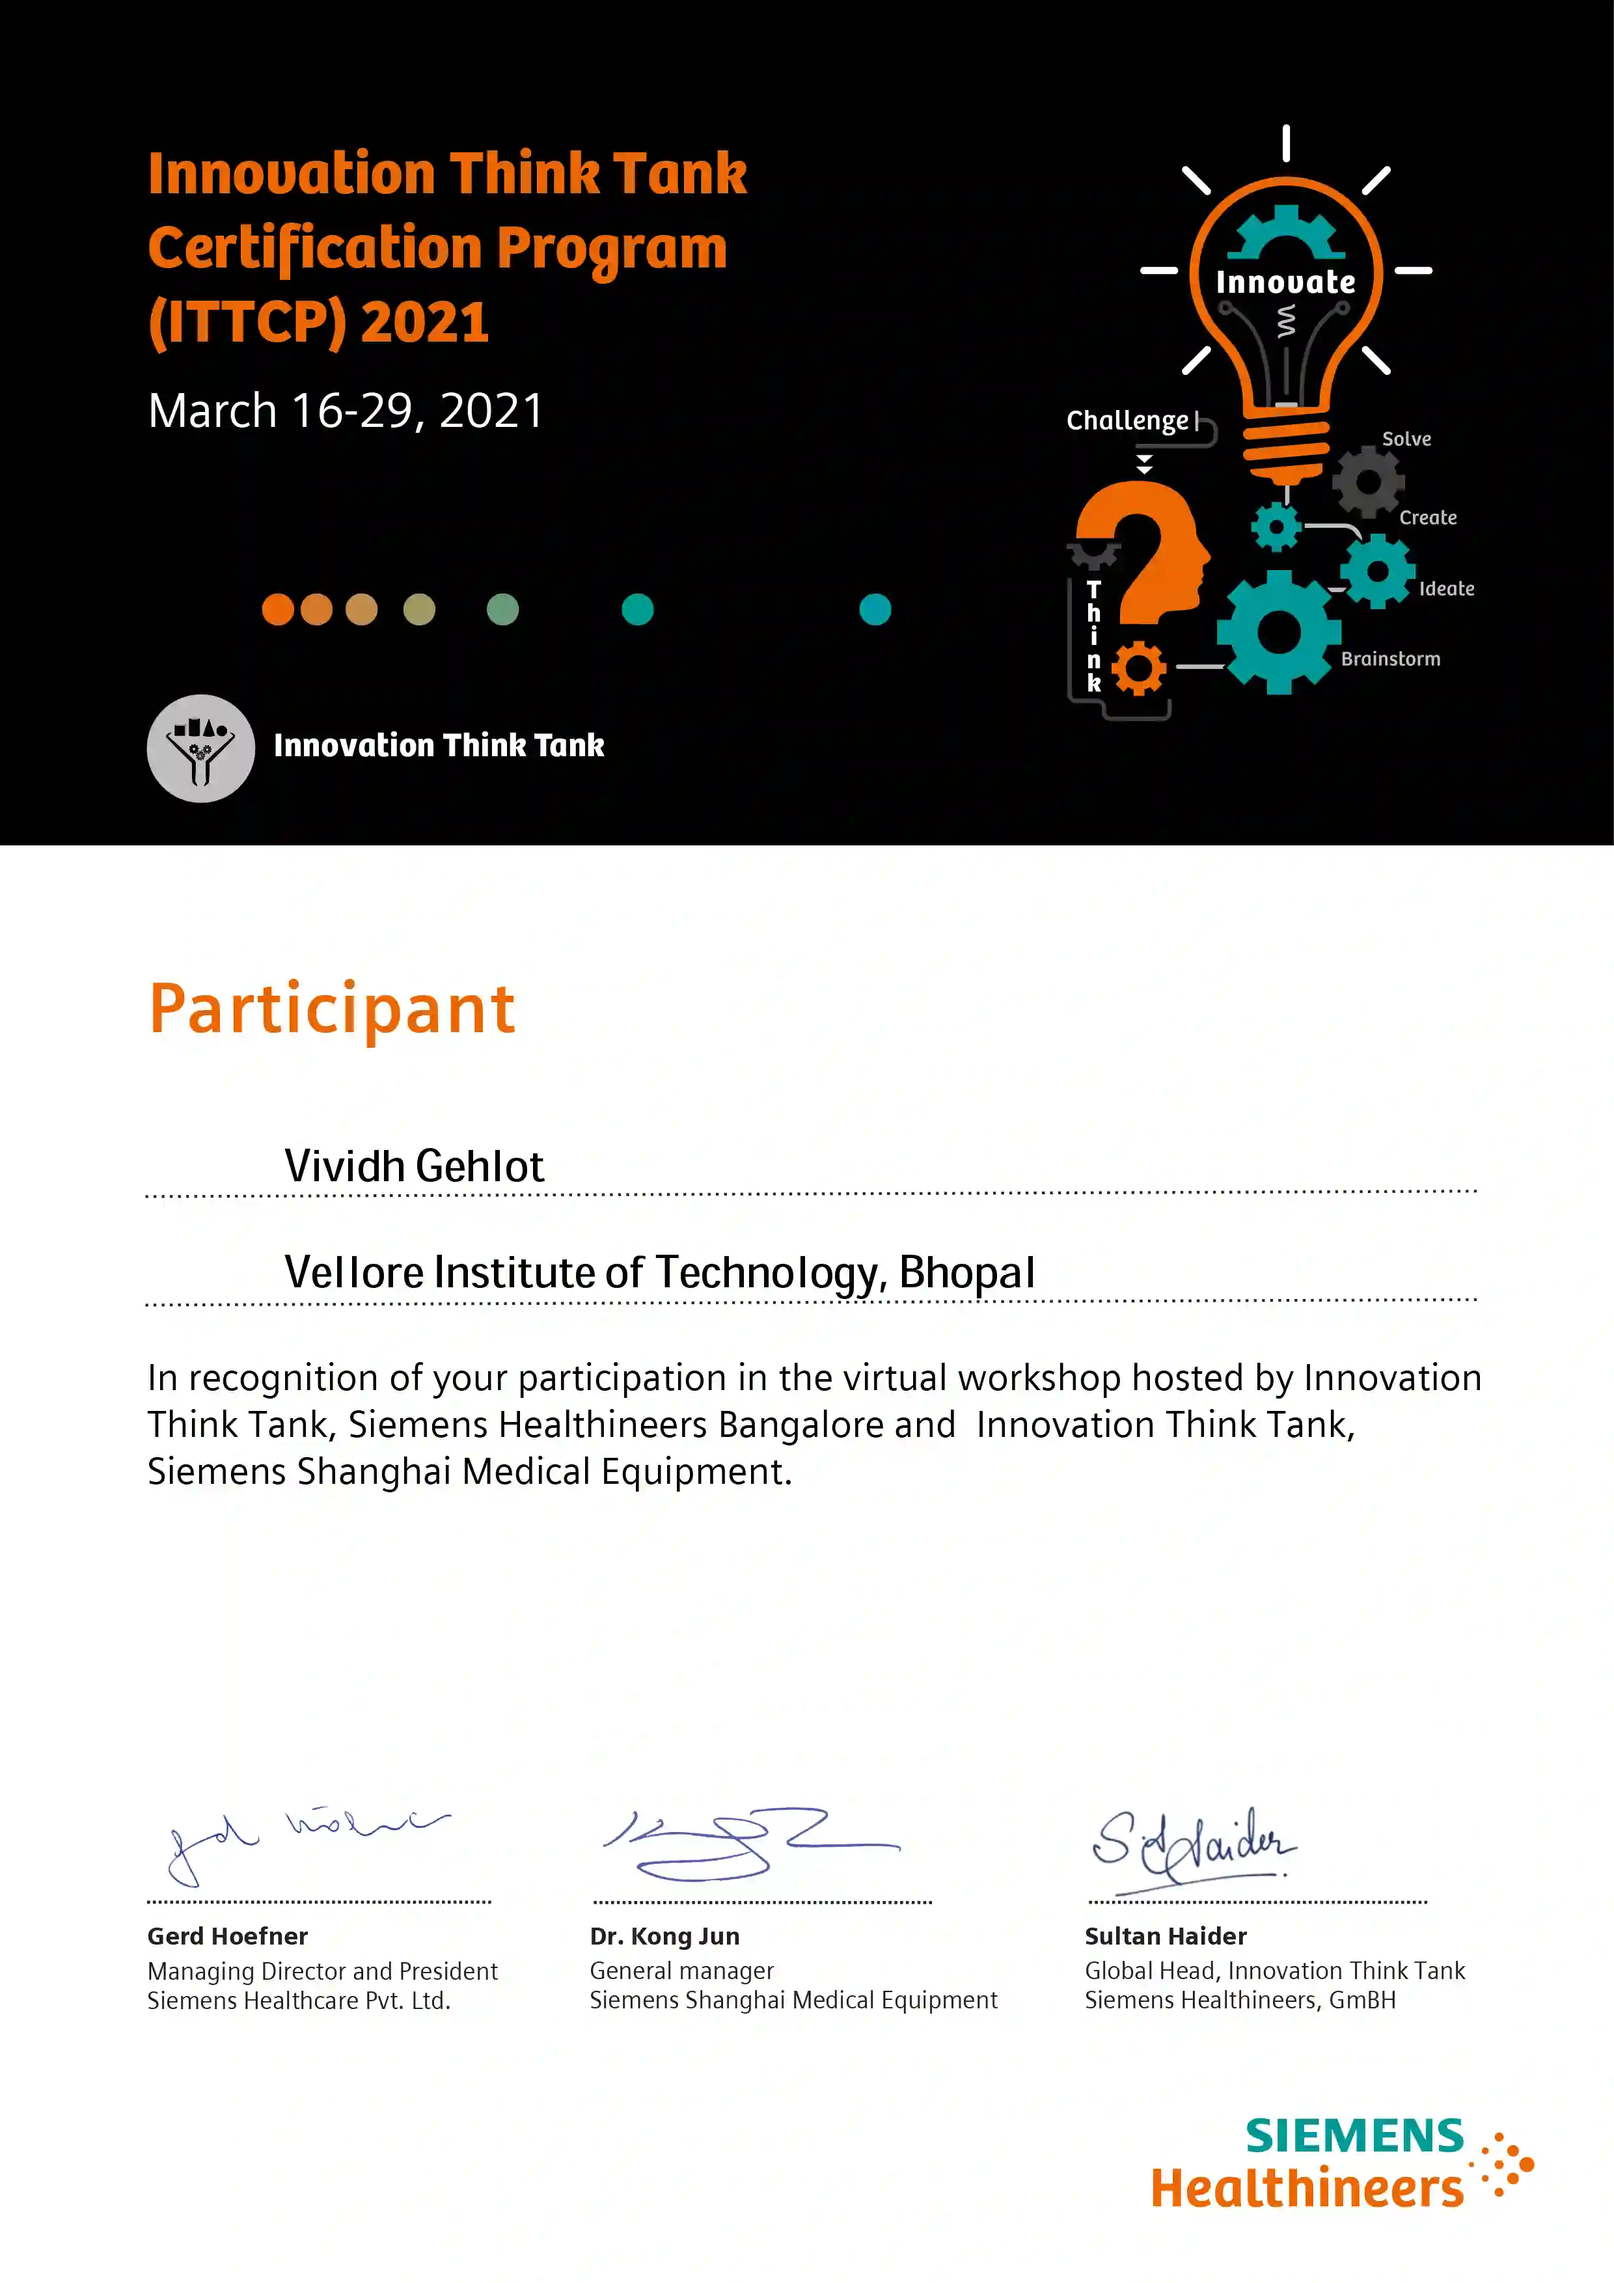
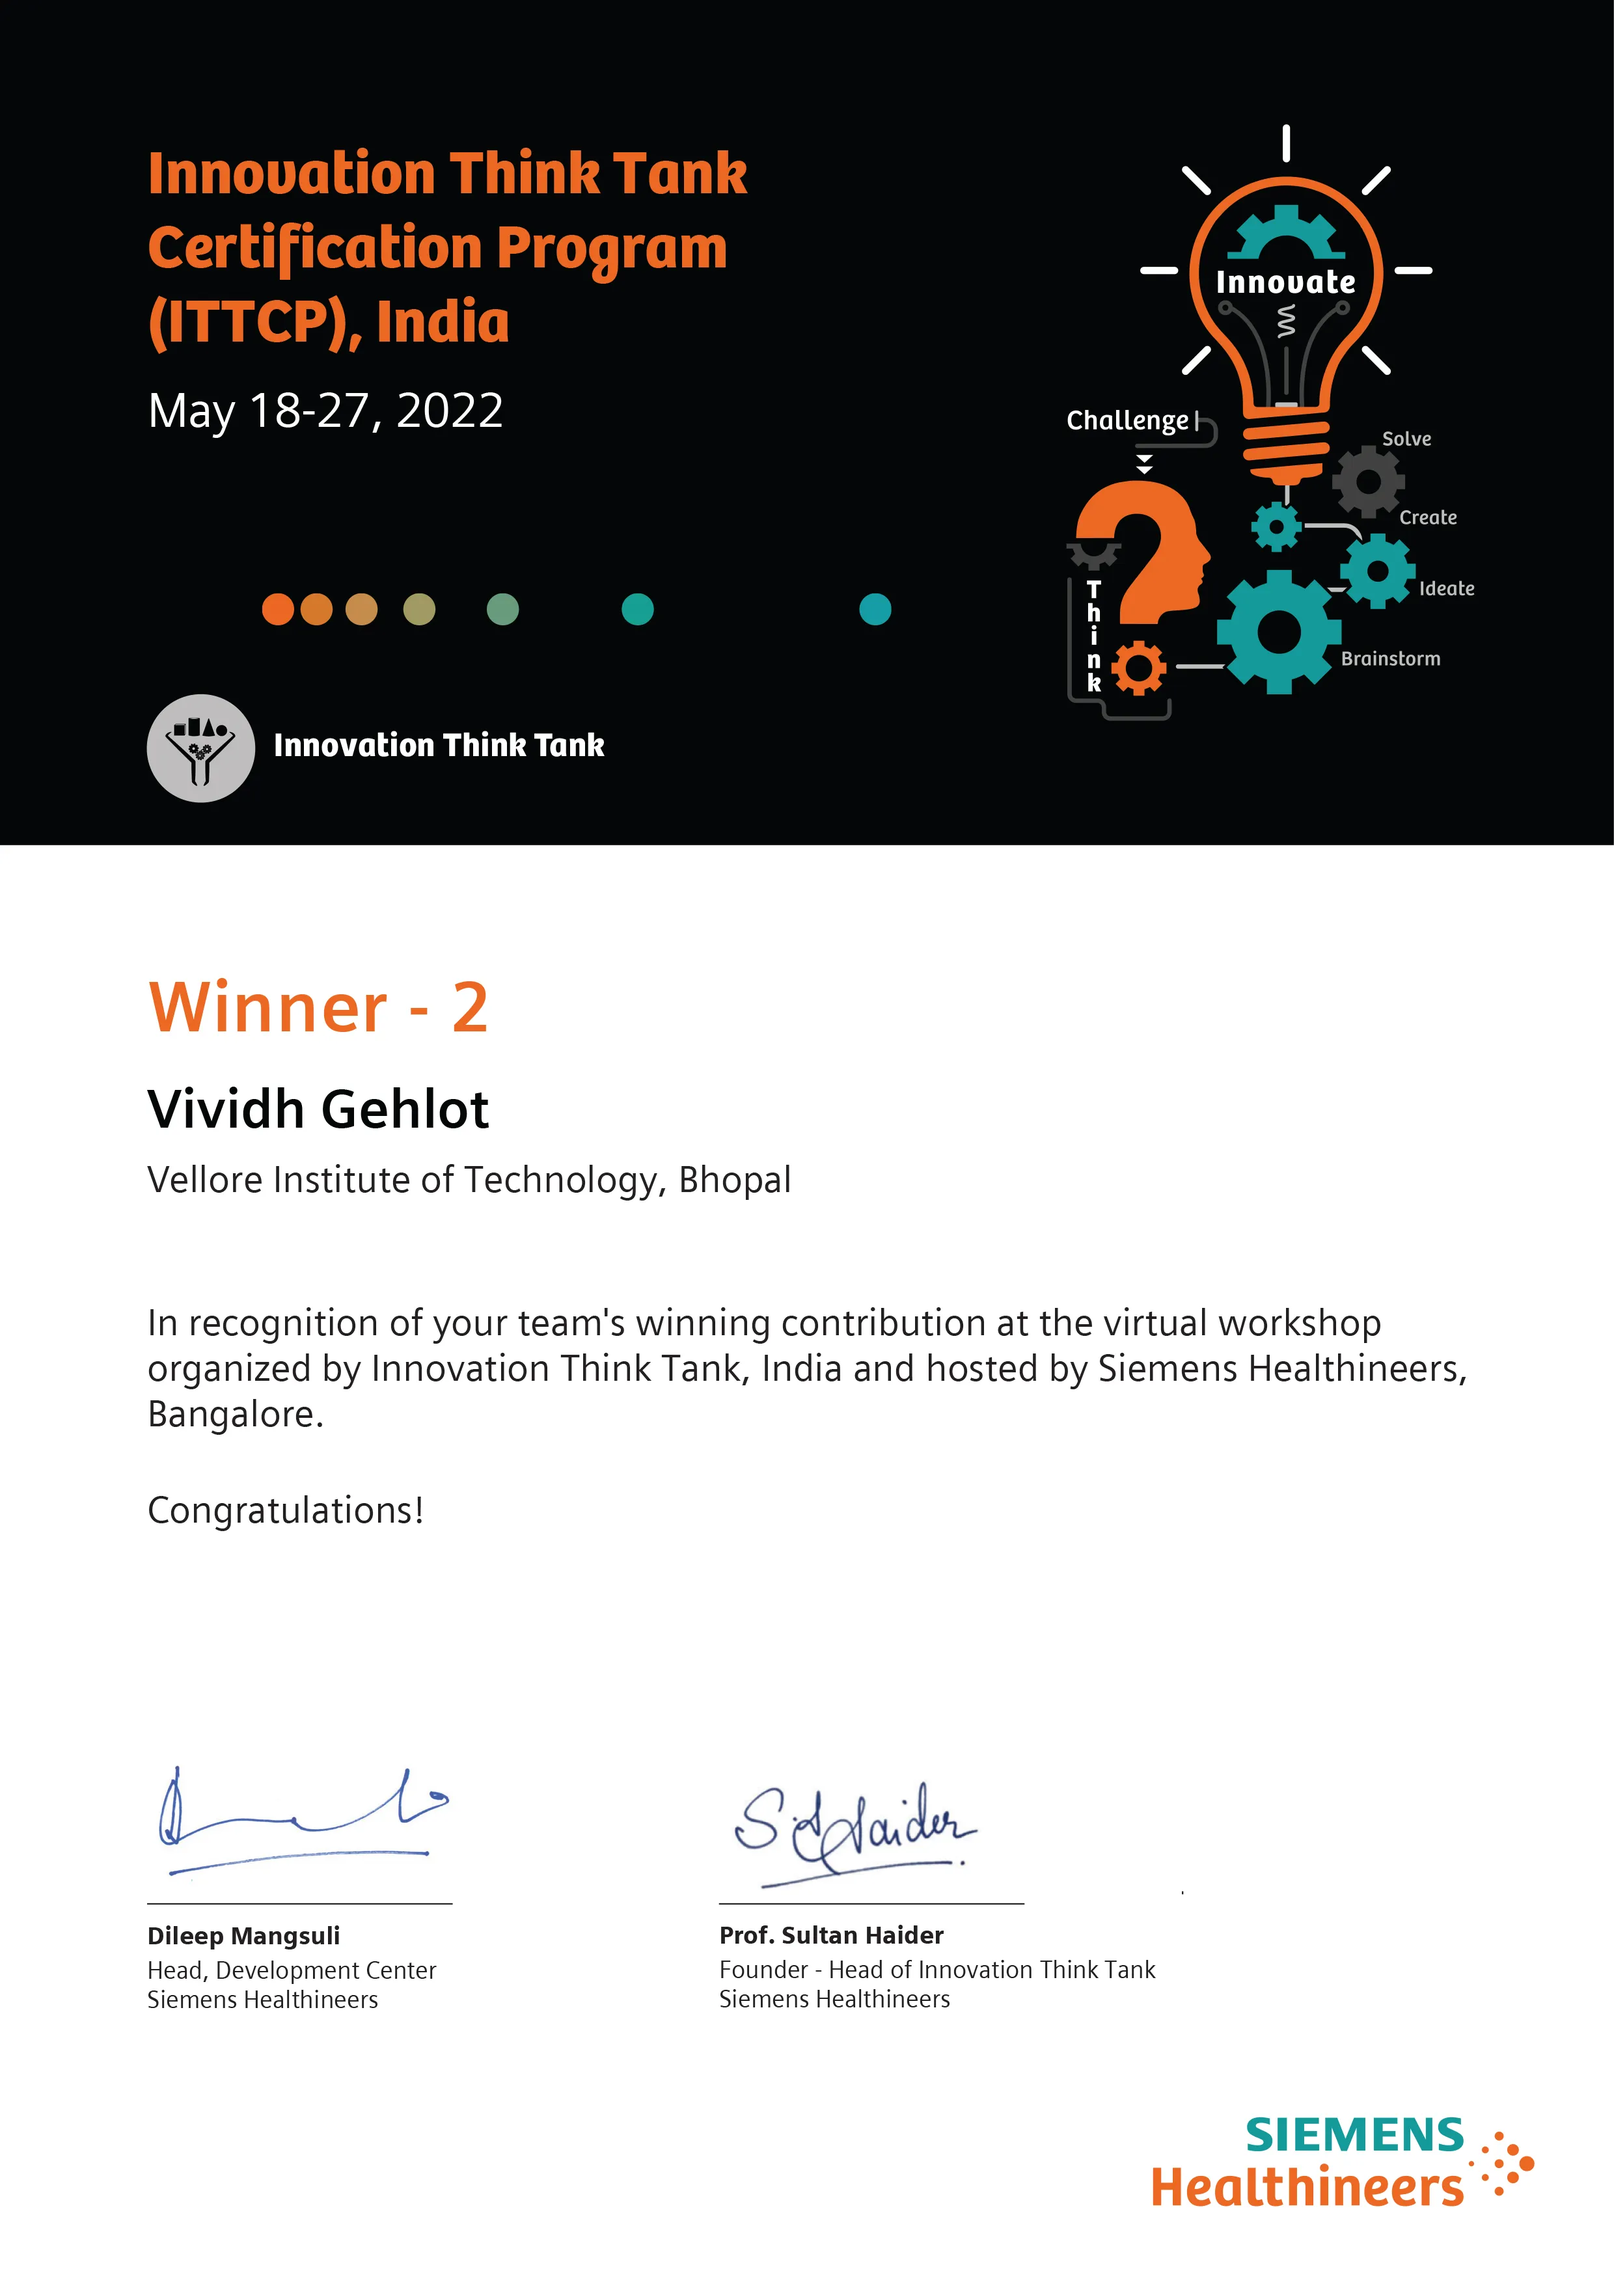
new_cert

diff --git a/about.html b/about.html
@@ -63,8 +63,8 @@
                 <div class="col-xs-12 col-md-6">
                   <h3>Hi, I'm Vividh Gehlot.</h3>
                   <h5>Bioengineer Student</h5>
-                  <p>have experience in front-end web designing, graphics design, and Bioengineering (currently in 3rd year at VIT Bhopal University).</p>
-                  <p>Innovation Think Tank Certification Program (ITTCP) 2021</p>
+                  <p>have experience in front-end web designing, graphics design, and <b>Bioengineering (currently in 3rd year at VIT Bhopal University).</b></p>
+                  <p>Innovation Think Tank Certification Program (ITTCP) 2022</p>
                   <img src="assets/images/cert.webp" style="height: auto; width: 350px;" alt="Siemens Cerificate">
                   <p>Love cycling and successfully did many century rides with groups and solos.</p>
                   <p>more coming up......</p>
